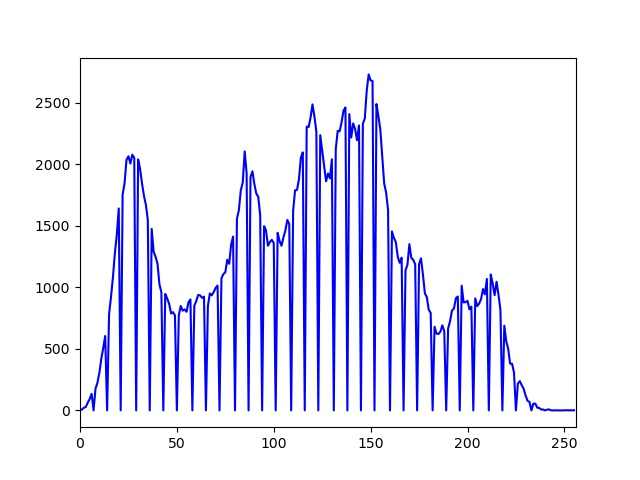
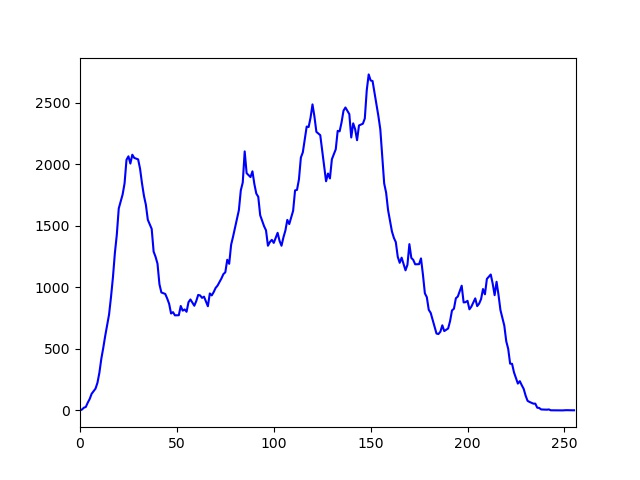
prints aktualisiert & BugFix Speichern

Changed region(s): [[0.125, 0.1875, 0.8125, 0.875]]

diff --git a/Exercise_2/main.py b/Exercise_2/main.py
@@ -20,9 +20,11 @@ import Utilities
 # make sure to prevent pixel overflows or negative pixel values
 
 if __name__ == '__main__':
+    # Bild laden und in Grauwertbild laden
     img = cv2.imread("./SampleData/classics/lena.png", 1)
     img = cv2.cvtColor(img, cv2.COLOR_BGR2GRAY)
 
+    # Bild in mehreren Versionen bearbeiten lassen, sowie abspeichern
     stretchedImg = HM.stretchHistogram(img)
     cv2.imwrite('./SampleData/Edited/stretchedImage.jpg', stretchedImg)
     print('Image was saved.')
@@ -33,17 +35,21 @@ if __name__ == '__main__':
 
     expImg = HM.expoImg(img)
     cv2.imwrite('./SampleData/Edited/exponentiellImage.jpg', expImg)
+    print('Image was saved.')
 
     inverseImg = HM.invImg(img)
     cv2.imwrite('./SampleData/Edited/inverseImage.jpg', inverseImg)
+    print('Image was saved.')
 
     threshImg = HM.threshImg(img)
     cv2.imwrite('./SampleData/Edited/thresholdImage.jpg', threshImg)
+    print('Image was saved.')
 
     LogImg = HM.logImg(img)
     cv2.imwrite('./SampleData/Edited/logarithmischImage.jpg', LogImg)
+    print('Image was saved.')
 
-
+    # Histogramme erstellen und anzeigen lassen
     Utilities.showHistogram(img)
     Utilities.saveHist(img, 'normaleHist')
 
@@ -54,17 +60,18 @@ if __name__ == '__main__':
     Utilities.saveHist(equalizedImg, 'equalizeHist')
 
     Utilities.showHistogram(expImg)
-    Utilities.saveHist(equalizedImg, 'expHist')
+    Utilities.saveHist(expImg, 'expHist')
 
     Utilities.showHistogram(inverseImg)
-    Utilities.saveHist(equalizedImg, 'inverseHist')
+    Utilities.saveHist(inverseImg, 'inverseHist')
 
     Utilities.showHistogram(threshImg)
-    Utilities.saveHist(equalizedImg, 'thresholdHist')
+    Utilities.saveHist(threshImg, 'thresholdHist')
 
     Utilities.showHistogram(LogImg)
-    Utilities.saveHist(equalizedImg, 'logarithmischHist')
+    Utilities.saveHist(LogImg, 'logarithmischHist')
 
+    # Bilder anzeigen lassen
     cv2.imshow("Original Image", img)
     cv2.imshow("Stretched Image", stretchedImg)
     cv2.imshow("Equalized Image", equalizedImg)
@@ -74,9 +81,13 @@ if __name__ == '__main__':
     cv2.imshow("Log Image", LogImg)
     cv2.waitKey()
 
-    
-    fill = HM.fillgaps(stretchedImg)
-    Utilities.saveHist(fill, 'Stretched_image-FilledGaps')
+    # Gaps in den Histogrammen ausfüllen und anzeigen lassen
+    fill = HM.fillgaps(stretchedImg, 'Stretched_image-FilledGaps')
 
-    fill = HM.fillgaps(equalizedImg)
-    Utilities.saveHist(fill, 'Equalized_image-FilledGaps')
+    fill = HM.fillgaps(equalizedImg, 'Equalized_image-FilledGaps')
+
+    fill = HM.fillgaps(inverseImg, 'inversed_image-FilledGaps')
+
+    fill = HM.fillgaps(expImg, 'exponentiell_image-FilledGaps')
+
+    fill = HM.fillgaps(LogImg, 'logarithmisch_image-FilledGaps')

diff --git a/Exercise_2/HistogramManipulation.py b/Exercise_2/HistogramManipulation.py
@@ -98,7 +98,7 @@ def threshImg(img):
     print("Histogram threshold")
     return result
 
-def fillgaps(img):
+def fillgaps(img, name):
     result = img.copy()
 
     L = 256
@@ -115,6 +115,7 @@ def fillgaps(img):
     plt.close()
     plt.plot(hist, color='b')
     plt.xlim([0, 256])
+    plt.savefig('./SampleData/Edited/' + name + '.jpg')
     plt.show()
 
     return result
